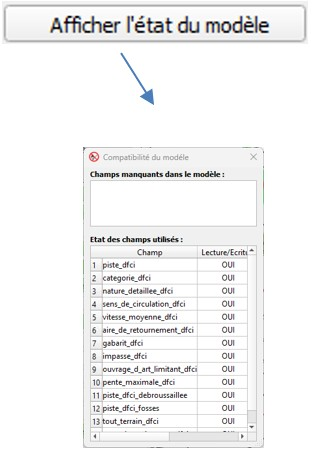
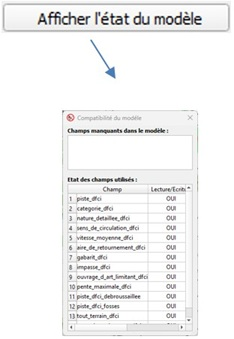
correction mise en page images

diff --git a/docs/index.md b/docs/index.md
@@ -2,9 +2,6 @@
 
 ## Version 1.1.0 &nbsp;&nbsp;&nbsp;&nbsp;&nbsp;&nbsp; IGN - DTSO 
 
-| Version      | Date       | Auteur       |
-|--------------|------------|--------------|
-| **1.1.0**    | 23/01/2026 | IGN - DTSO   |
 
 <div  style="text-align: left;"> 
 	<img  src="Image0.jpg"  height = 110/> 
@@ -44,9 +41,9 @@
 
 Version de QGIS 3 : 3.28 ou supérieure.  
 Ce plugin fonctionne en parallèle du plugin « IGN Espace collaboratif » version 4.2.2  
-Ce plugin fonctionne uniquement avec des couches de la BDTopo, le nom de la couche route doit obligatoirement se nommer : « troncon_de_route » dans QGIS.  
+Ce plugin fonctionne uniquement avec des couches de la BDTopo, dans QGIS le nom de la couche route doit obligatoirement se nommer : « troncon_de_route ».  
 
-Si le package « openpyxl » n’est pas installé sur le poste le message d’erreur ci-dessous apparaît lors d’une transaction.  
+Si le package « openpyxl » n’est pas installé sur le poste, le message d’erreur ci-dessous apparaît lors d’une transaction.  
 
 <div  style="text-align: center;"> 
 	<img  src="Image1.png" /> 
@@ -68,7 +65,7 @@ Le package s’installe, vous n’avez plus qu’à relancer QGIS.
 
 <div  style="background-color: white; border: 1px solid black; padding: 10px; text-align: justify;">
   <h2 id="2-résumé" style="color: #00ADC5">2. Résumé</h2>
-</div>
+</div>  
   
 Ce plugin est une aide à la modification des attributs sémantiques des « complexes DFCI ».  
   
@@ -76,22 +73,23 @@ Ce plugin est une aide à la modification des attributs sémantiques des « comp
   
 <div  style="background-color: white; border: 1px solid black; padding: 10px; text-align: justify;">
   <h2 id="3-installation" style="color: #00ADC5">3. Installation</h2>
-</div>
+</div>  
   
 Ouvrir QGIS.  
 Allez dans Extensions/Installer/Gérer les extensions, cliquez sur Installer depuis un ZIP, sélectionner le fichier ZIP puis cliquez sur Installer le plugin.  
 
 <div  style="text-align: center;"> 
 	<img  src="Image4.png" /> 
-</div>
+</div>  
   
 <div  style="background-color: white; border: 1px solid black; padding: 10px; text-align: justify;">
   <h2 id="4-présentation" style="color: #00ADC5">4. Présentation</h2>
-</div>
+</div>  
   
+
 <div  style="text-align: center;"> 
-	<img  src="Image5.png" /> 
-</div>
+	<img  src="Image5.png" height="300"/> 
+</div>  
 
 Cette interface permet de modifier les attributs des champs DFCI des tronçons de routes  
 
@@ -103,10 +101,12 @@ Le bouton ![Image8](Image8.png) permet la sélection de toutes les entités comp
 
 Le bouton « Valider les modifications » valide les modifications dans QGIS, le plugin « espace collaboratif » se charge d’impacter les bases BDTopo de l’IGN.  
 
-<div  style="text-align: left;"> 
-	<img  src="Image9.jpg" /> 
+<div  style="text-align: center;"> 
+	<img  src="Image9.jpg" height = 350/> 
 </div>
-A l’ouverture de l’outil il y a une vérification de la présence dans le projet des couches nécessaires. Afficher l’état du modèle permet de **vérifier les permissions sur chaque attribut.** Ces permissions sont définies dans le projet en fonction des guichets en saisie directe dans la BDTOPO.  
+A l’ouverture de l’outil, il y a une vérification de la présence dans le projet des couches nécessaires. 
+Afficher l’état du modèle permet de **vérifier les permissions sur chaque attribut.** 
+Ces permissions sont définies dans le projet en fonction des guichets en saisie directe dans la BDTOPO.  
   
 <div  style="background-color: white; border: 1px solid black; padding: 10px; text-align: justify;">
   <h2 id="5-mode-de-sélection" style="color: #00ADC5">5. Mode de sélection</h2>
@@ -121,31 +121,36 @@ En vert lorsqu’ils sont différents de « NULL » ou de vide.
 - Sélection multiple avec l’outil de saisie. Dans QGIS on peut sélectionner manuellement un ensemble de tronçons  
 
 - Sélection multiple de tronçons contigües, on sélectionne 2 tronçons, <mark>ces 2 tronçons doivent être visible à l’écran et être connectés.</mark>  
-Ensuite on clique sur le bouton ![Image8](Image8.png) , le résultat est une sélection de tous les tronçons entre le premier et le deuxième sélectionnés respectant l’algorithme du chemin le plus court.  
-Un contrôle visuel est toutefois nécessaire afin de vérifier si les tronçons sont bien ceux désirés.  
+Ensuite, on clique sur le bouton ![Image8](Image8.png), le résultat est une sélection de tous les tronçons entre les deux tronçons sélectionnés, respectant l’algorithme du chemin le plus court.  
+Un contrôle visuel est toutefois nécessaire, afin de vérifier si les tronçons sont bien ceux désirés.  
 
 
 Seuls les attributs communs à tous les tronçons sont représentés en vert.  
 
-
+  
 <div  style="background-color: white; border: 1px solid black; padding: 10px; text-align: justify;">
-  <h2 id="6-modification" style="color: #00ADC5">5. Modification</h2>
-</div>
-Une fois les tronçons sélectionnés il suffit de choisir le ou les attributs à modifier parmi les valeurs possibles ou éditables.  
+  <h2 id="6-modification" style="color: #00ADC5">6. Modification</h2>
+</div>  
+Une fois les tronçons sélectionnés, il suffit de choisir le ou les attributs à modifier parmi les valeurs possibles ou éditables.  
 
- ![Image11](Image11.png) &nbsp;
+<div  style="text-align: center;"> 
+	<img  src="Image11.jpg" height = 300/> 
+</div>
+
 
 Les valeurs en rose sont celles qui seront modifiées pour tous les tronçons sélectionnés.  
 
-Les modifications sur le(s) tronçon(s) sélectionné(s) sont à valider avec le bouton ![Image12](Image12.png) 
+Les modifications sur le(s) tronçon(s) sélectionné(s) sont à valider avec le bouton ![Image12](Image12.png)  
 Un message QGIS confirme la prise en compte des modifications.  
 ![Image13](Image13.png)  
 
-![Image15](Image15.jpg)  
+<div  style="text-align: left;"> 
+	<img  src="Image15.jpg" height = 150/> 
+</div>
 
 
 <div  style="background-color: white; border: 1px solid black; padding: 10px; text-align: justify;">
-  <h2 id="5-mode-de-sélection" style="color: #00ADC5">7. Extra</h2>
+  <h2 id="7-extra" style="color: #00ADC5">7. Extra</h2>
 </div>
 
 ### <span style="color: white; background-color: #00ADC5; padding: 2px 5px;">7.1 A propos de</span>
@@ -154,4 +159,4 @@ Accessible via le bouton ![Image16](Image16.png)
 
 ![Image17](Image17.png)  
 
-Cette boite permet de suivre l’historique des différentes versions ainsi que d’afficher la documentation.  
+Cette boîte permet de suivre l’historique des différentes versions ainsi que d’afficher la documentation.  
